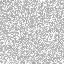
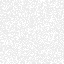
Remove most tiling from terrain

diff --git a/WorldObjects.cpp b/WorldObjects.cpp
@@ -5,27 +5,6 @@ int WorldObjects::numobjs = 0; // Not sure we really need this anymore
 
 WorldObjects::WorldObjects()
 {
-   // Generate FBO - less ugly than it used to be pre-GLEW
-   /*glGenFramebuffersEXT(1, &impostorfbo);
-   glBindFramebufferEXT(GL_FRAMEBUFFER_EXT, impostorfbo);
-   
-   glGenRenderbuffersEXT(1, &depthbuffer);
-   glBindRenderbufferEXT(GL_RENDERBUFFER_EXT, depthbuffer);
-   glRenderbufferStorageEXT(GL_RENDERBUFFER_EXT, GL_DEPTH_COMPONENT, FBODIM, FBODIM);
-   glFramebufferRenderbufferEXT(GL_FRAMEBUFFER_EXT, GL_DEPTH_ATTACHMENT_EXT, GL_RENDERBUFFER_EXT, depthbuffer);
-   
-   glGenTextures(1, &imptex);
-   glBindTexture(GL_TEXTURE_2D, imptex);
-   glTexParameteri(GL_TEXTURE_2D, GL_TEXTURE_MAG_FILTER, GL_LINEAR);
-   glTexParameteri(GL_TEXTURE_2D, GL_TEXTURE_MIN_FILTER, GL_LINEAR);
-   glPixelStorei(GL_UNPACK_ALIGNMENT, 1);
-   glTexImage2D(GL_TEXTURE_2D, 0, GL_RGBA, FBODIM, FBODIM, 0, GL_RGBA, GL_UNSIGNED_BYTE, NULL);
-   
-   glFramebufferTexture2DEXT(GL_FRAMEBUFFER_EXT, GL_COLOR_ATTACHMENT0_EXT, GL_TEXTURE_2D, imptex, 0);
-   if (glCheckFramebufferStatusEXT(GL_FRAMEBUFFER_EXT) != GL_FRAMEBUFFER_COMPLETE_EXT)
-      cout << "Failed to create framebuffer in WorldObjects.\n" << glCheckFramebufferStatusEXT(GL_FRAMEBUFFER_EXT) << endl;
-   glBindFramebufferEXT(GL_FRAMEBUFFER_EXT, 0);*/
-   
    lastimpupdate = SDL_GetTicks();
    impdist = 0;
    hasfbo = hasvbo = false;
@@ -146,28 +125,6 @@ bool WorldObjects::operator>(const WorldObjects& o) const
 
 void WorldObjects::GenFbo(TextureHandler* texhand)
 {
-   // Generate FBO - less ugly than it used to be pre-GLEW
-   /*glGenFramebuffersEXT(1, &impostorfbo);
-   glBindFramebufferEXT(GL_FRAMEBUFFER_EXT, impostorfbo);
-   
-   glGenRenderbuffersEXT(1, &depthbuffer);
-   glBindRenderbufferEXT(GL_RENDERBUFFER_EXT, depthbuffer);
-   glRenderbufferStorageEXT(GL_RENDERBUFFER_EXT, GL_DEPTH_COMPONENT, FBODIM, FBODIM);
-   glFramebufferRenderbufferEXT(GL_FRAMEBUFFER_EXT, GL_DEPTH_ATTACHMENT_EXT, GL_RENDERBUFFER_EXT, depthbuffer);
-   
-   glGenTextures(1, &imptex);
-   glBindTexture(GL_TEXTURE_2D, imptex);
-   glTexParameteri(GL_TEXTURE_2D, GL_TEXTURE_MAG_FILTER, GL_LINEAR);
-   glTexParameteri(GL_TEXTURE_2D, GL_TEXTURE_MIN_FILTER, GL_LINEAR);
-   glTexParameteri(GL_TEXTURE_2D, GL_TEXTURE_WRAP_S, GL_CLAMP_TO_EDGE);
-   glTexParameteri(GL_TEXTURE_2D, GL_TEXTURE_WRAP_T, GL_CLAMP_TO_EDGE);
-   glPixelStorei(GL_UNPACK_ALIGNMENT, 1);
-   glTexImage2D(GL_TEXTURE_2D, 0, GL_RGBA, FBODIM, FBODIM, 0, GL_RGBA, GL_UNSIGNED_BYTE, NULL);
-   
-   glFramebufferTexture2DEXT(GL_FRAMEBUFFER_EXT, GL_COLOR_ATTACHMENT0_EXT, GL_TEXTURE_2D, imptex, 0);
-   if (glCheckFramebufferStatusEXT(GL_FRAMEBUFFER_EXT) != GL_FRAMEBUFFER_COMPLETE_EXT)
-      cout << "Failed to create framebuffer in WorldObjects.\n" << glCheckFramebufferStatusEXT(GL_FRAMEBUFFER_EXT) << endl;
-   glBindFramebufferEXT(GL_FRAMEBUFFER_EXT, 0);*/
    impostorfbo = FBO(FBODIM, FBODIM, false, texhand);
    imptex = impostorfbo.GetTexture();
    hasfbo = true;
@@ -203,7 +160,7 @@ void WorldObjects::GenVbo(Shader* s)
       }
       if (i->type == "tristrip" || i->type == "terrain")
       {
-         for (int k = 0; k < 6; ++k)
+         for (int k = 0; k < 6; ++k) // Triangles now, six vertices per quad
          {
             int j = 0;
             switch (k)
@@ -242,7 +199,7 @@ void WorldObjects::GenVbo(Shader* s)
             {
                attribs1.push_back(i->terraintex[j][k]);
             }
-            for (int m = 0; m < 6; ++m)
+            for (int m = 0; m < 6; ++m) // Six texture units currently allowed, probably never use all of them
             {
                for (int k = 0; k < 2; ++k)
                   texcoords[m].push_back(i->texcoords[m][j][k]);

diff --git a/defines.h b/defines.h
@@ -83,13 +83,6 @@ void ConsoleBufferToGUI();
 int NumTokens(string);
 string Token(string, int);
 string SimplifyWhitespace(string);
-/*void RenderSkybox();
-void RenderConsole();
-void RenderFPS();
-void RenderObjects();
-void RenderHud();
-void RenderDynamicObjects();
-void RenderDOTree(DynamicPrimitive*);*/
 void GenShadows(Vector3, float, FBO&);
 list<DynamicObject>::iterator LoadObject(string, list<DynamicObject>&);
 void Animate();
@@ -134,8 +127,11 @@ float farclip = 2000;  // Why didn't I just use viewdist?
 int screenwidth, screenheight;  // Current resolution
 float aspect;
 int tilesize;           // How much to scale terrain in the x and z directions
+int terrainstretch;     // How many tiles to stretch non-detail terrain textures over
+// The following should probably never be used
 TTF_Font *lcd;          // The font for FPS display
 TTF_Font *consolefont;  // The font for the console
+
 int lasttick, frames;   // For FPS calculation
 float fps;              // Previously calculated FPS value
 bool showfps, fly;      // Display FPS and allow flying
@@ -157,10 +153,8 @@ int nummaplayers;       // How many layers of textures the current map has
 int fov;                // What field of view to use
 int viewdist;           // How far the player can see
 int nextprim;           // Next available primitive in the array
-//int intmethod;          // Which method to use for collision detection
 int aalevel;            // How much antialiasing to apply
 vector<GLuint> dotextures; // Dynamic object textures
-//PrimitiveOctree *ot;
 bool terrainlistvalid;  // Is display list for terrain up to date?
 GLuint terrainlist;     // Terrain display list
 bool showkdtree;        // Visualize the kdtree for debugging?
@@ -188,8 +182,6 @@ list<Particle> particles; // List of active particles
 Light lights;           // Container for the data to set OpenGL lights
 GLuint shadowmaptex[2]; // GL identifier for the shadow map textures
 GLuint worldshadowmaptex[2]; // Static shadow map textures
-//GLuint shadowmapfbo;    // GL id for the shadow map fbo
-//GLuint worldshadowmapfbo; // GL id for static shadow map
 FBO shadowmapfbo, worldshadowmapfbo; // Shadowmap framebuffer objects
 bool shadows;           // Whether to render shadows
 Shader shaderhand;      // Encapsulate shaders

diff --git a/getmap.cpp b/getmap.cpp
@@ -25,7 +25,7 @@ float Random(float, float);
 void GenShadows(Vector3, float, FBO&);
 
 extern GUI mainmenu, loadprogress;
-extern int tilesize, terrobjsize;
+extern int tilesize, terrobjsize, terrainstretch;
 extern bool shadows;
 extern CollisionDetection coldet;
 extern vector<GLuint> textures;
@@ -55,6 +55,7 @@ void GetMap(string fn)
    vector<floatvec> maparray;  // Heightmap data scaled by heightscale
    ProgressBar* progress = (ProgressBar*)loadprogress.GetWidget("loadprogressbar");
    GUI* progtext = loadprogress.GetWidget("progresstext");
+   
    ifstream gm(dataname.c_str(), ios_base::in);
    gm >> dummy;
    gm >> tilesize;
@@ -67,6 +68,8 @@ void GetMap(string fn)
    gm >> numtextures;
    gm >> dummy;
    gm >> numobjects;
+   gm >> dummy;
+   gm >> terrainstretch;
    
    
    
@@ -425,7 +428,6 @@ void GetMap(string fn)
    for (int i = 0; i < mapw - 1; ++i)
       terrprims.push_back(temp);
    
-   //typedef vector<Vector3> Vector3vec;
    vector<Vector3vec> normals;
    Vector3vec temp1;
    Vector3 v;
@@ -706,12 +708,17 @@ void GetMap(string fn)
          tempprim.color[1][3] = texpercent[x][y + 1];
          tempprim.color[2][3] = texpercent[x + 1][y];
          tempprim.color[3][3] = texpercent[x + 1][y + 1];
-         /*if (textrans[texarray[layer][y][x]])
-         {
-            tempprim.transparent = true;
-            currobj->tprims.push_back(tempprim);
-         }
-         else*/ 
+         
+         float texpiece = 1.f / (float)(terrainstretch);
+         tempprim.texcoords[1][0][0] = (x % terrainstretch) * texpiece;
+         tempprim.texcoords[1][0][1] = (y % terrainstretch) * texpiece;
+         tempprim.texcoords[1][1][0] = (x % terrainstretch) * texpiece;
+         tempprim.texcoords[1][1][1] = ((y % terrainstretch) + 1) * texpiece;
+         tempprim.texcoords[1][2][0] = ((x % terrainstretch) + 1) * texpiece;
+         tempprim.texcoords[1][2][1] = (y % terrainstretch) * texpiece;
+         tempprim.texcoords[1][3][0] = ((x % terrainstretch) + 1) * texpiece;
+         tempprim.texcoords[1][3][1] = ((y % terrainstretch) + 1) * texpiece;
+         
          currobj->prims.push_back(tempprim);
          tempprim = WorldPrimitives();
       }

diff --git a/GenericPrimitive.h b/GenericPrimitive.h
@@ -21,7 +21,7 @@ class GenericPrimitive
       bool collide;
       bool dynamic;
       int vboindex;
-      vector< vector< vector<float> > > texcoords;
+      vector< vector< vector<float> > > texcoords; // texcoords[texunit][vertex][st]
       int texnum;
       GLuint texnums[6];
       string shader;
